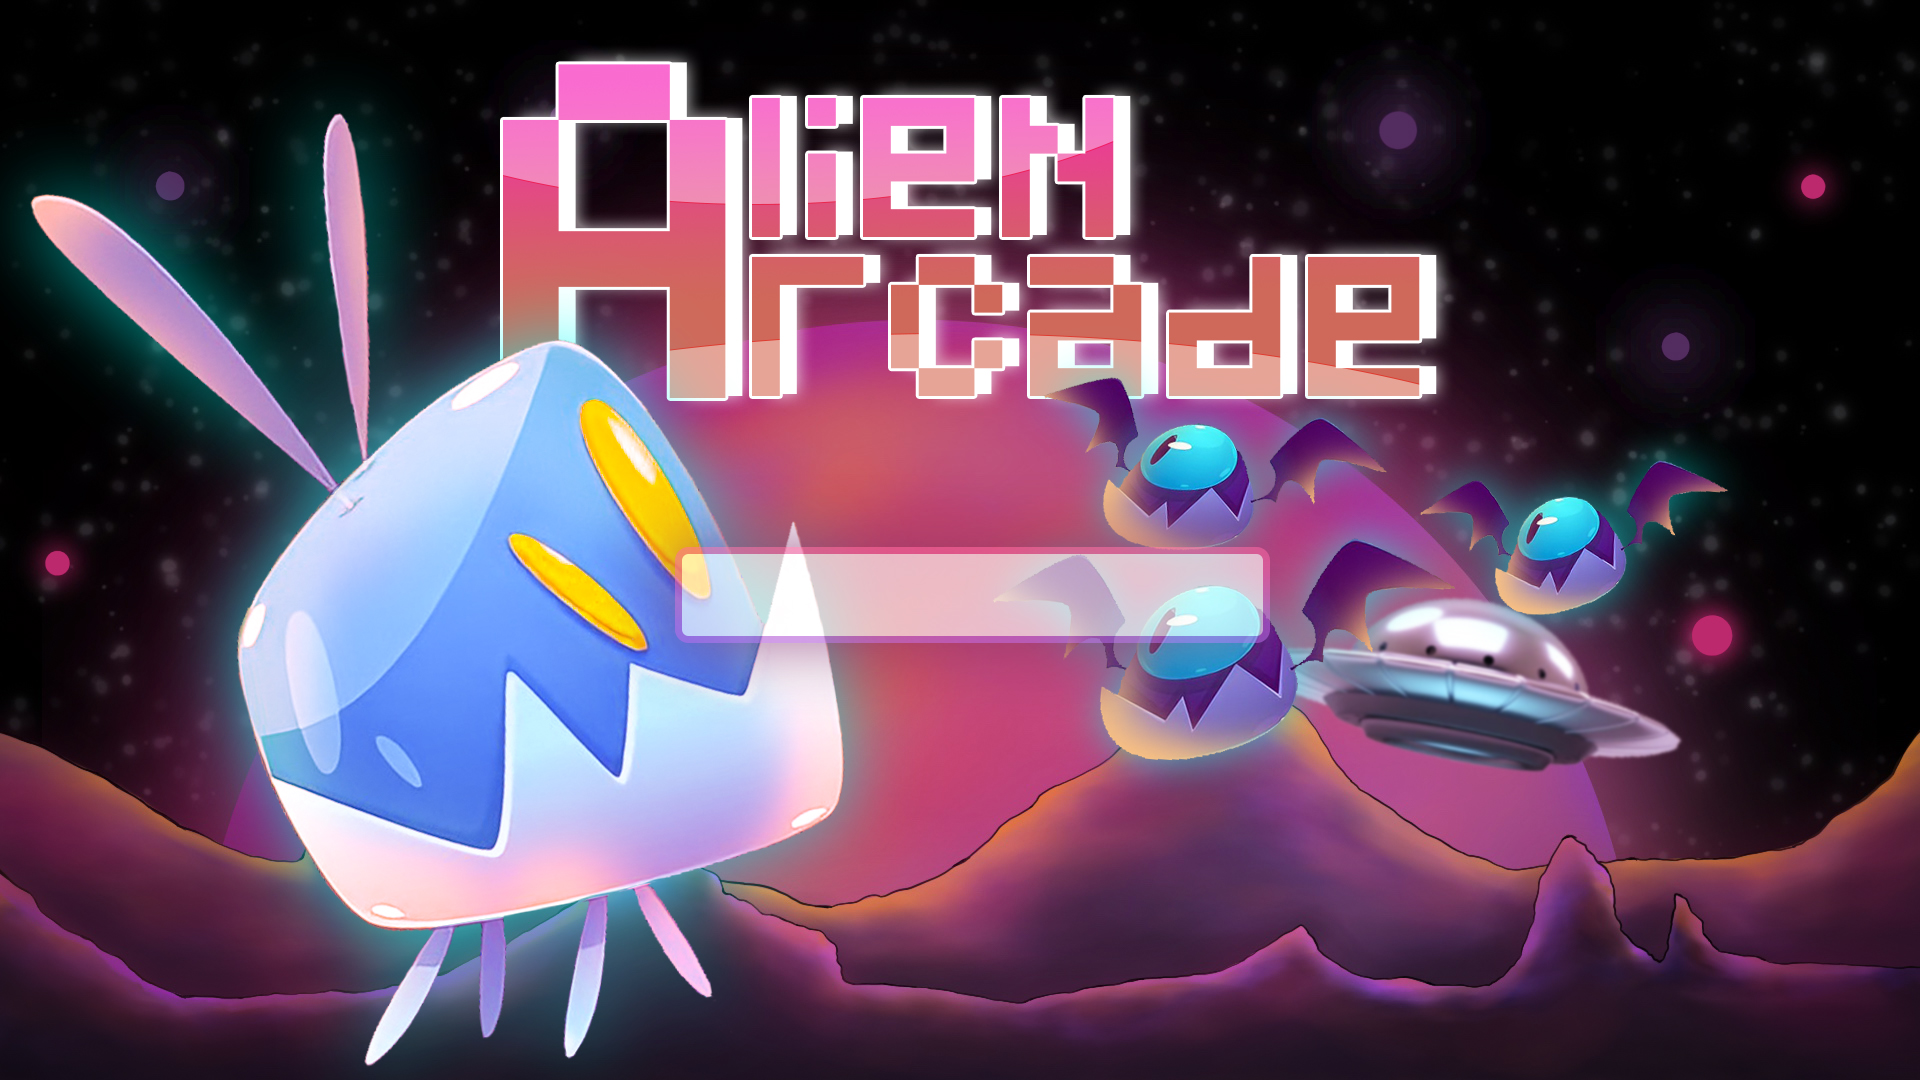
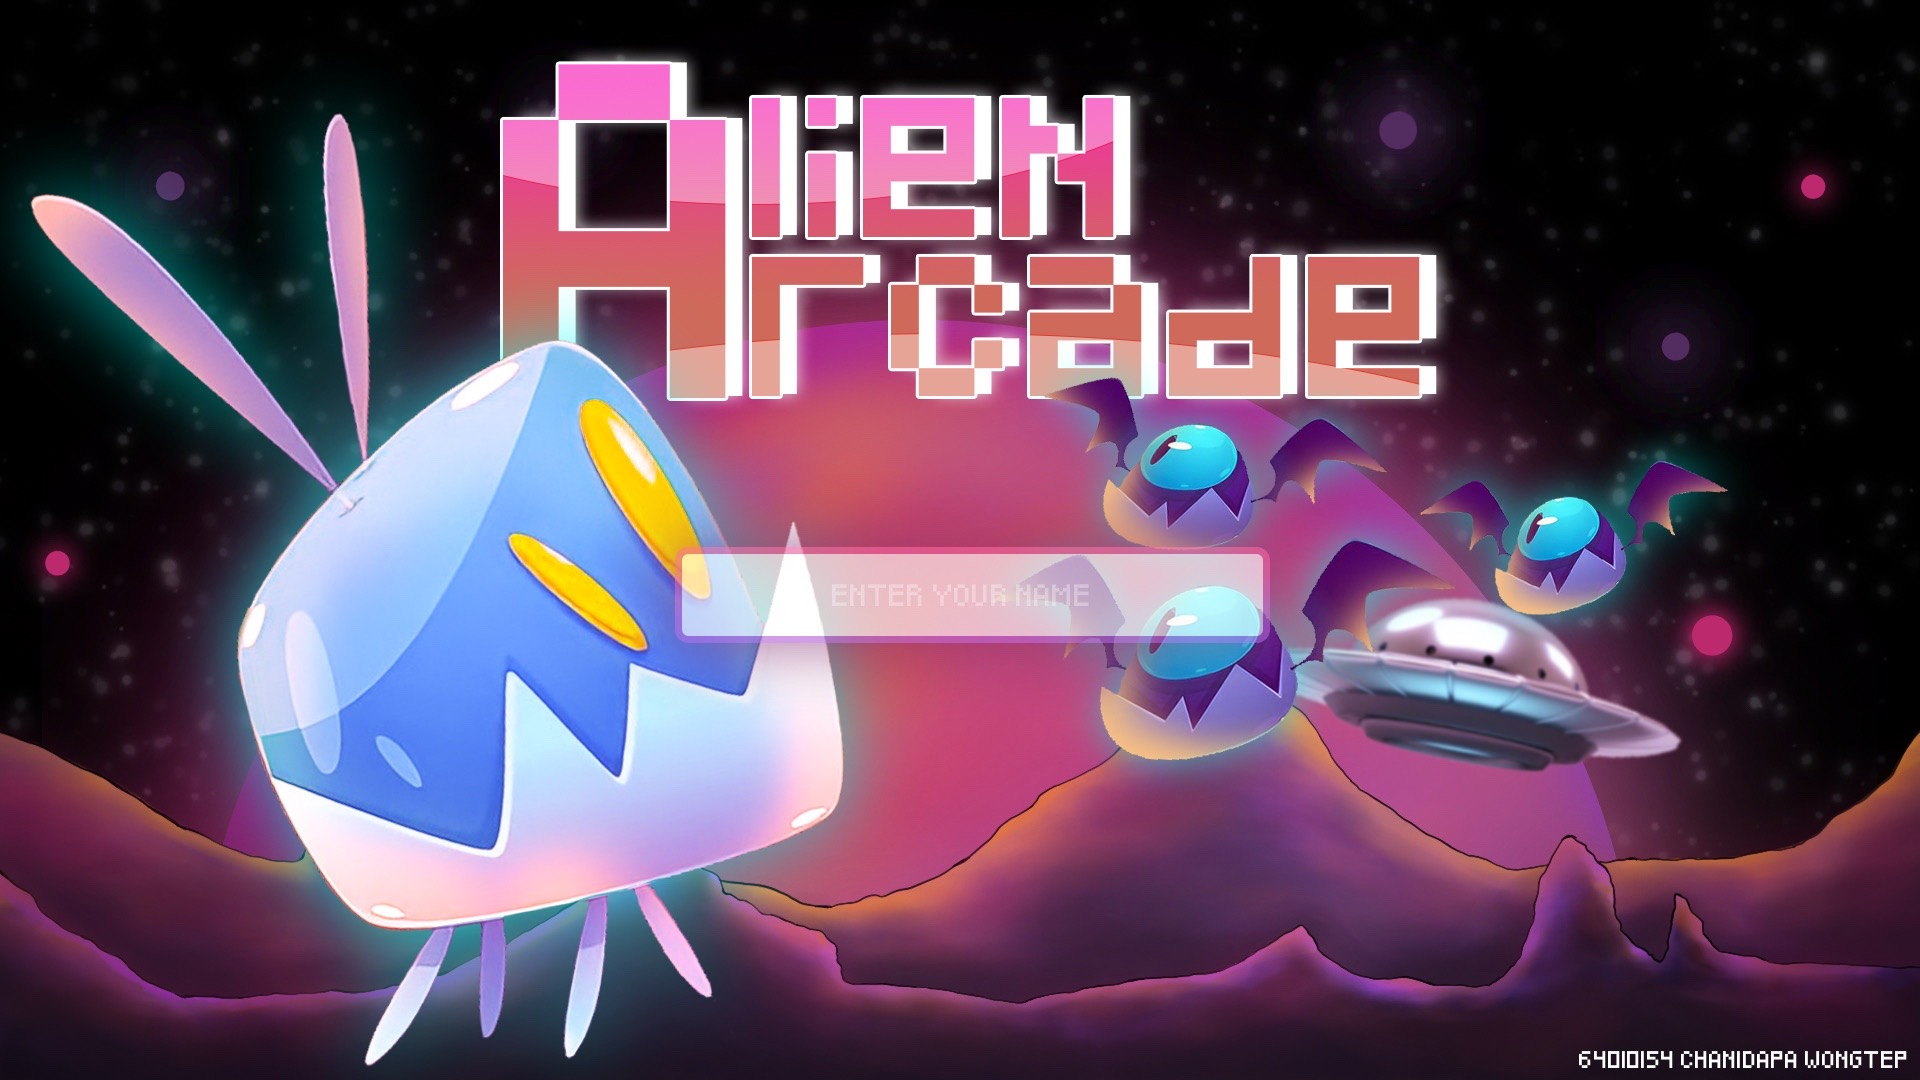
finished

Changed region(s): [[0.8125, 0.9778, 1.0, 1.0], [0.3125, 0.3972, 0.3438, 0.4583]]

diff --git a/alien/main.cpp b/alien/main.cpp
@@ -79,7 +79,7 @@ int main()
 		//Textbox
 		Font tF;
 		tF.loadFromFile("PIXELED.ttf");
-		Textbox textbox1(50,Color::Black,true);
+		Textbox textbox1(50,Color::Black,false);
 		textbox1.setFont(tF);
 		textbox1.setPosition({ 705,570 });
 		textbox1.setLimit(true, 10);
@@ -91,14 +91,15 @@ int main()
 		MENU:
 			deltaTime = clock.restart().asSeconds() * multiplier;
 			Event event;
-
+			
 			if (Keyboard::isKeyPressed(Keyboard::Return))
 			{
 				textbox1.setSelected(true);
 			}
-			else if (Keyboard::isKeyPressed(Keyboard::Escape))
+
+			else if (Keyboard::isKeyPressed(Keyboard::Enter))
 			{
-				textbox1.setSelected(false);
+				textbox1.setSelected(true);
 			}
 
 			while (window.pollEvent(event))

diff --git a/alien/Game.cpp b/alien/Game.cpp
@@ -157,7 +157,7 @@ void Game::update(float deltaTime)
 				if (bullets[b].getGlobalBounds().intersects(enemies[e].getGlobalBounds()) && bullets[b].tag != ENEMY_B)
 				{
 					enemies.erase(enemies.begin() + e);
-					enemies.push_back(Enemy(Vector2f(1920, rand() % SCREEN_HEIGHT), enemyTexture, 500));
+					enemies.push_back(Enemy(Vector2f(1920, rand() % SCREEN_HEIGHT), enemyTexture, 600));
 					score += 100;
 					textScore.setString("Score " + to_string(score));
 					break;

diff --git a/alien/Game.h b/alien/Game.h
@@ -1,12 +1,11 @@
 #pragma once
-#include "Scene.h"
 #include "Player.h"
+#include "Scene.h"
 #include "Bullet.h"
 #include "Background.h"
 #include "Enemy.h"
 #include "Item.h"
 #include "Textbox.h"
-//#include "Button.h"
 #include "LeaderBoard.h"
 
 class Game : public Scene

diff --git a/alien/Scene.cpp b/alien/Scene.cpp
@@ -1,2 +1,1 @@
 #include "Scene.h"
-
